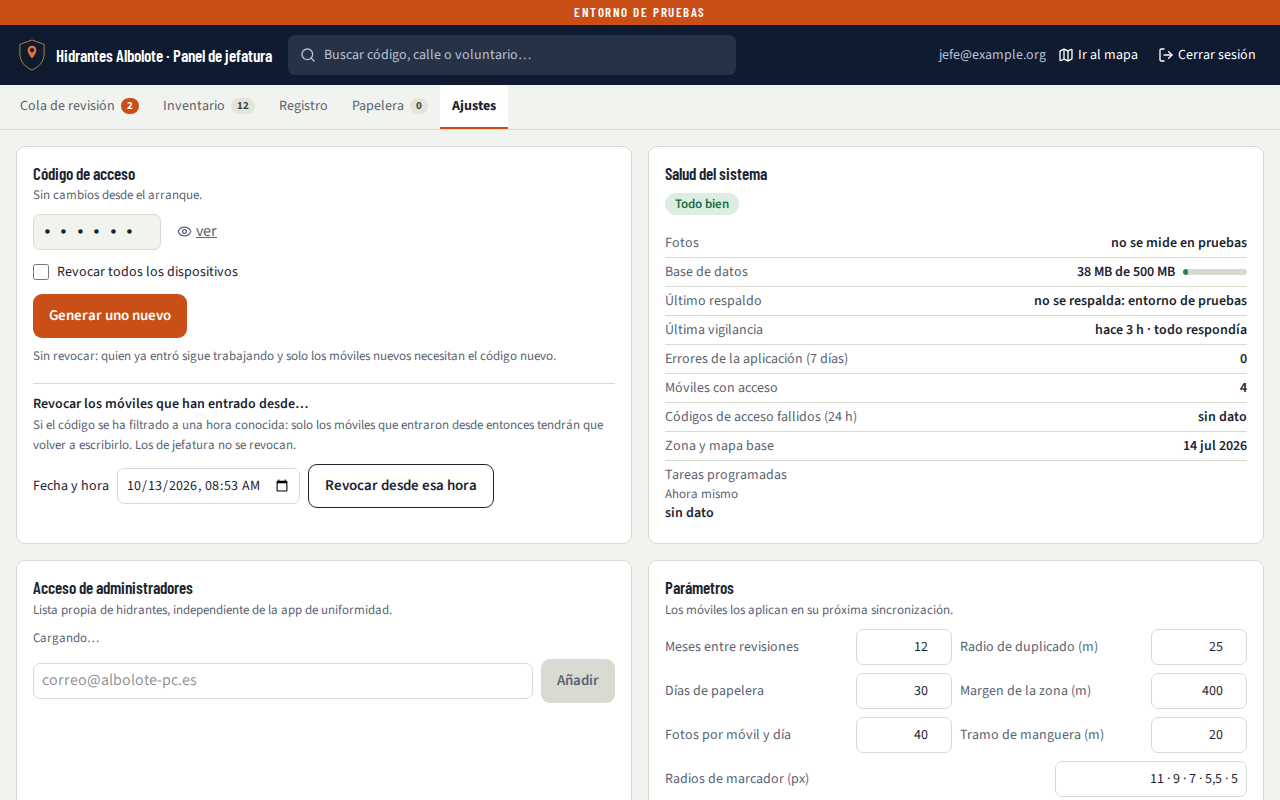
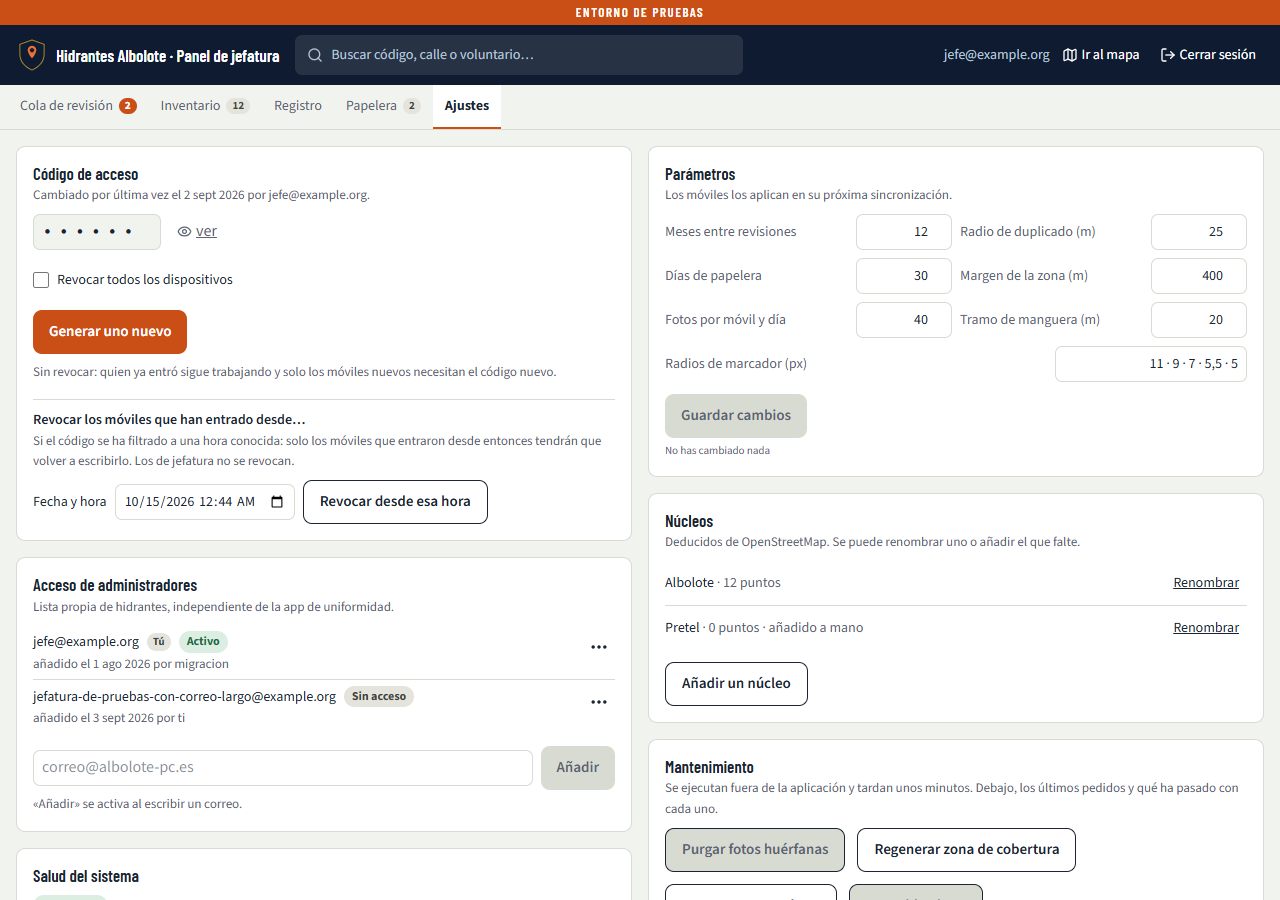
docs(panel): capturas del panel por anchos y del móvil, con Ajustes y la Papelera completos (docs/38 RV-511)
Closes #791

diff --git a/e2e/listas-anchos.spec.ts b/e2e/listas-anchos.spec.ts
@@ -8,7 +8,7 @@ import type { NodeResult, Result } from 'axe-core';
 import { expect, test, type Page } from '@playwright/test';
 import { T } from '../src/lib/textos.ts';
 import { abrirFiltros } from './ayudas.ts';
-import { jefatura, REGISTRO } from './panel-simulado.ts';
+import { jefatura, PANEL_COMPLETO, REGISTRO } from './panel-simulado.ts';
 
 test.describe.configure({ timeout: 120_000 });
 test.skip(({ isMobile }) => isMobile, 'en el proyecto de escritorio, con el ancho a mano (como anchos.spec.ts)');
@@ -17,44 +17,6 @@ const CARGA = 15_000;
 const ANCHOS = [360, 412, 820, 1100, 1280, 1920] as const;
 const PESTANAS = ['cola', 'inventario', 'registro', 'papelera', 'ajustes'] as const;
 
-const hace = (h: number) => new Date(Date.now() - h * 3_600_000).toISOString();
-
-/** Lo que falta en el panel simulado de siempre: la papelera con puntos y lo que lee Ajustes. */
-const EXTRA = {
-  // Más de una página (50 por página): los botones de página también se miden.
-  v_registro: Array.from({ length: 60 }, (_, i) => ({ ...REGISTRO[i % REGISTRO.length], id: i + 1 })),
-  puntos: [
-    { id: 'b1', codigo: 'BOC-0042', tipo: 'boca_riego', diametro_mm: 45, borrado_en: hace(48) },
-    { id: 'b2', codigo: 'HID-0108', tipo: 'hidrante', diametro_mm: 80, borrado_en: hace(29 * 24 + 2) },
-  ],
-  config: [
-    { clave: 'codigo_acceso', valor: '482917' },
-    { clave: 'codigo_acceso_cambiado_en', valor: '2026-09-02T10:00:00Z' },
-    { clave: 'codigo_acceso_cambiado_por', valor: 'jefe@example.org' },
-    { clave: 'meses_revision', valor: 12 },
-    { clave: 'radio_duplicado_m', valor: 25 },
-    { clave: 'dias_papelera', valor: 30 },
-    { clave: 'buffer_zona_m', valor: 400 },
-    { clave: 'max_subidas_dispositivo_dia', valor: 40 },
-    { clave: 'metros_tramo_manguera', valor: 20 },
-    { clave: 'escala_radios', valor: [11, 9, 7, 5.5, 5] },
-  ],
-  administradores: [
-    { email: 'jefe@example.org', activo: true, creado_en: '2026-08-01T10:00:00Z', creado_por: 'migracion' },
-    {
-      email: 'jefatura-de-pruebas-con-correo-largo@example.org',
-      activo: false,
-      creado_en: '2026-09-03T10:00:00Z',
-      creado_por: 'jefe@example.org',
-    },
-  ],
-  dispositivos: [{ id: 'x1' }, { id: 'x2' }],
-  nucleos: [
-    { nombre: 'Albolote', municipio: 'albolote', manual: false },
-    { nombre: 'Pretel', municipio: 'albolote', manual: true },
-  ],
-};
-
 /** Los textos de la interfaz que acaban en «…» (un botón que abre algo, «Cargando…»): esos no son datos cortados. */
 function textosConPuntos(o: unknown, fuera = new Set<string>()): Set<string> {
   if (typeof o === 'string') {
@@ -62,6 +24,13 @@ function textosConPuntos(o: unknown, fuera = new Set<string>()): Set<string> {
   } else if (o && typeof o === 'object') for (const v of Object.values(o)) textosConPuntos(v, fuera);
   return fuera;
 }
+/** El panel completo y, además, 60 entradas en el Registro: más de una página. */
+const EXTRA = {
+  ...PANEL_COMPLETO,
+  // Más de una página (50 por página): los botones de página también se miden.
+  v_registro: Array.from({ length: 60 }, (_, i) => ({ ...REGISTRO[i % REGISTRO.length], id: i + 1 })),
+};
+
 const INTERFAZ_CON_PUNTOS = [...textosConPuntos(T)];
 
 async function abrir(page: Page, pestana: (typeof PESTANAS)[number]) {

diff --git a/e2e/panel-simulado.ts b/e2e/panel-simulado.ts
@@ -164,6 +164,40 @@ export const REGISTRO = [
   },
 ];
 
+/** Lo que falta en el panel de siempre para verlo entero: la papelera con puntos y lo que lee Ajustes (docs/38). */
+export const PANEL_COMPLETO = {
+  puntos: [
+    { id: 'b1', codigo: 'BOC-0042', tipo: 'boca_riego', diametro_mm: 45, borrado_en: hace(48) },
+    { id: 'b2', codigo: 'HID-0108', tipo: 'hidrante', diametro_mm: 80, borrado_en: hace(29 * 24 + 2) },
+  ],
+  config: [
+    { clave: 'codigo_acceso', valor: '482917' },
+    { clave: 'codigo_acceso_cambiado_en', valor: '2026-09-02T10:00:00Z' },
+    { clave: 'codigo_acceso_cambiado_por', valor: 'jefe@example.org' },
+    { clave: 'meses_revision', valor: 12 },
+    { clave: 'radio_duplicado_m', valor: 25 },
+    { clave: 'dias_papelera', valor: 30 },
+    { clave: 'buffer_zona_m', valor: 400 },
+    { clave: 'max_subidas_dispositivo_dia', valor: 40 },
+    { clave: 'metros_tramo_manguera', valor: 20 },
+    { clave: 'escala_radios', valor: [11, 9, 7, 5.5, 5] },
+  ],
+  administradores: [
+    { email: 'jefe@example.org', activo: true, creado_en: '2026-08-01T10:00:00Z', creado_por: 'migracion' },
+    {
+      email: 'jefatura-de-pruebas-con-correo-largo@example.org',
+      activo: false,
+      creado_en: '2026-09-03T10:00:00Z',
+      creado_por: 'jefe@example.org',
+    },
+  ],
+  dispositivos: [{ id: 'x1' }, { id: 'x2' }],
+  nucleos: [
+    { nombre: 'Albolote', municipio: 'albolote', manual: false },
+    { nombre: 'Pretel', municipio: 'albolote', manual: true },
+  ],
+};
+
 /** Jefatura con el panel simulado; `tablas` añade o sustituye tablas (la papelera, los administradores…). */
 export async function jefatura(page: Page, tablas: Parameters<typeof simularTablas>[1] = {}) {
   await conGoogle(page, 'jefe@example.org');

diff --git a/e2e/vistas.spec.ts b/e2e/vistas.spec.ts
@@ -8,7 +8,7 @@ import { T } from '../src/lib/textos.ts';
 import { SUPABASE_PRUEBAS } from '../playwright.config.ts';
 import { abrirFiltros, conGoogle, conSesion, simularRpc, accionInventario } from './ayudas.ts';
 import { LISTADO, PUNTOS } from './puntos.ts';
-import { jefatura } from './panel-simulado.ts';
+import { jefatura, PANEL_COMPLETO } from './panel-simulado.ts';
 
 const [P0, P1] = PUNTOS;
 const hace = (h: number) => new Date(Date.now() - h * 3_600_000).toISOString();
@@ -360,7 +360,7 @@ for (const tema of ['claro', 'oscuro'] as const) {
       test.skip(!!isMobile, 'en escritorio, con el ancho a mano');
       await page.setViewportSize({ width: ancho, height: ancho < 768 ? 915 : 900 });
       await page.emulateMedia({ colorScheme: tema === 'oscuro' ? 'dark' : 'light' });
-      await jefatura(page);
+      await jefatura(page, PANEL_COMPLETO);
       for (const pestana of PESTANAS_PANEL) {
         await page.goto(`/admin/${pestana}`);
         await expect(page.getByRole('main').getByText(T.panelCola.cargando)).toHaveCount(0);

diff --git a/docs/capturas/vistas/LEEME.md b/docs/capturas/vistas/LEEME.md
@@ -1,6 +1,6 @@
 # Capturas de la CI, para los borradores de 13 y 14
 
-Copiadas el 2026-10-14 del artefacto `vistas` del trabajo `ci-vistas` (`e2e/vistas.spec.ts`,
+Las del voluntario, copiadas el 2026-10-14 del artefacto `vistas` del trabajo `ci-vistas` (`e2e/vistas.spec.ts`,
 docs/21 RV-88), en la CI del PR #690 (`docs/35` RV-433), el último de `develop` que tocó pantallas
 en `docs/35` (RV-414). `nuevo-punto-boca.png` enseña las fotos propias de los enganches, con
 Barcelona y Directo como dice DEC-194. Son de la versión
@@ -8,7 +8,12 @@ actual de la app, con **datos simulados** (`e2e/puntos.ts`): códigos `HID-90nn`
 descripciones `[PRUEBA]`, la voluntaria ficticia «Voluntaria Pruebas» y `jefe@example.org`.
 Ninguna sale de staging ni de producción, y ningún nombre es de nadie (FR-27, DEC-053).
 
-Las del voluntario son a 412 × 915 (Pixel 7); las del panel, a 1280 × 800 o 1440 × 800. Modo claro.
+Las del panel se sustituyeron el 2026-10-16 (`docs/38` RV-511) con `e2e/vistas.spec.ts` del PR #804 (RV-510), con el
+panel simulado de `e2e/panel-simulado.ts` (`PANEL_COMPLETO`): el panel por anchos, con las listas, los filtros en un
+botón y el menú ☰ del móvil.
+
+Las del voluntario son a 412 × 915 (Pixel 7); las del panel, a 1280 × 900 (1440 × 800 el Historial) y las dos del
+móvil, a 412 × 915. Modo claro.
 Están en su carpeta porque `npm run capturas` reescribe `docs/capturas/LEEME.md` y sus diez PNG.
 
 No se editan a mano: si una pantalla cambia, se copian otra vez del artefacto `vistas` del PR que
@@ -24,8 +29,10 @@ la cambie (o se lanza `npx playwright test e2e/vistas.spec.ts` y se copian de `t
 | `nuevo-punto.png` | `nuevo-punto-412-claro` | Nuevo punto: el pin, tipo, caudal / estado y las dos fotos |
 | `nuevo-punto-boca.png` | `nuevo-punto-boca-412-claro` | Nuevo punto de una boca de riego: diámetro y tipo de enganche |
 | `ajustes.png` | `ajustes-412-claro` | Ajustes del voluntario: firma, Mis propuestas, mapa, avisos y novedades |
-| `panel-cola.png` | `panel-cola-1280-claro` | Panel · Cola de revisión: lista, mapa, el cambio marcado y Aprobar / Rechazar |
-| `panel-inventario.png` | `panel-inventario-1280-claro` | Panel · Inventario: filtros de Tipo y Estado, Exportar y acciones por fila |
+| `panel-cola.png` | `panel-cola-1280-claro` | Panel · Cola de revisión: el botón de filtros, la lista de tres líneas, el mapa, el cambio marcado y Aprobar / Rechazar |
+| `panel-inventario.png` | `panel-inventario-1280-claro` | Panel · Inventario: el botón de filtros, Exportar, y Editar y «⋯» en cada fila |
 | `panel-historial.png` | `panel-historial-1440-claro` | Panel · Historial de un punto, con palabras |
-| `panel-registro.png` | `panel-registro-1440-claro` | Panel · Registro: quién hizo qué y qué cambió |
-| `panel-ajustes.png` | `panel-ajustes-1280-claro` | Panel · Ajustes: código de acceso y Salud del sistema |
+| `panel-registro.png` | `panel-registro-1280-claro` | Panel · Registro: el filtro por acción, «Tú» y qué cambió |
+| `panel-ajustes.png` | `panel-ajustes-1280-claro` | Panel · Ajustes en dos columnas: código de acceso, administradores con su etiqueta y «⋯», parámetros |
+| `panel-movil-menu.png` | `panel-menu-412-claro` | Panel en el móvil: el menú ☰ con las pestañas y sus números, y el punto naranja |
+| `panel-movil-filtros.png` | `panel-inventario-filtros-412-claro` | Panel en el móvil: la hoja de Filtrar y ordenar del Inventario |

diff --git a/docs/verificacion/panel-movil-38.md b/docs/verificacion/panel-movil-38.md
@@ -120,3 +120,11 @@ workflows. Una sola sesión, en el orden de §0.2.
   `vistas.spec.ts` pasa a `e2e/panel-simulado.ts` (`jefatura(page, tablas)`), que usan las dos. `vistas.spec.ts`: las
   cinco pestañas a 412, 820, 1.280 y 1.920 px en claro y en oscuro y, a 412, las hojas de filtros de Cola e Inventario,
   el menú ☰ y el «⋯» de una fila (sustituyen a las vistas sueltas de Cola, Inventario y Ajustes).
+- **RV-511:** 13 v0.5 (§3 el ☰, la lupa y el punto naranja; §4 el botón de filtros y la barra de lote solo con algo
+  marcado; §5 Filtrar y ordenar, tocar la fila abre Editar, «⋯» y «＋ Añadir dirección»; §6 el filtro del Registro y
+  «Tú»; §7 «Purgar lo caducado…» en rojo; §8 el orden de las tarjetas y Administradores con su etiqueta y «⋯»); 10, §N
+  con AC-179 a AC-184 (la cola en bloque verifica FR-101 y FR-107: FR-121 está retirado); INDICE, los cinco mockups de
+  docs/38 en la fila de `mockups/`. Capturas: `panel-cola`, `panel-inventario`, `panel-registro`, `panel-historial` y
+  `panel-ajustes` sustituidas, y `panel-movil-menu` y `panel-movil-filtros` nuevas (enlazadas desde 13 §3 y §5), con
+  `vistas.spec.ts` sobre `PANEL_COMPLETO` (la papelera y lo que lee Ajustes, que pasa de `listas-anchos.spec.ts` a
+  `e2e/panel-simulado.ts`: sin él, Ajustes salía con errores de carga en las capturas); `LEEME.md` al día.
